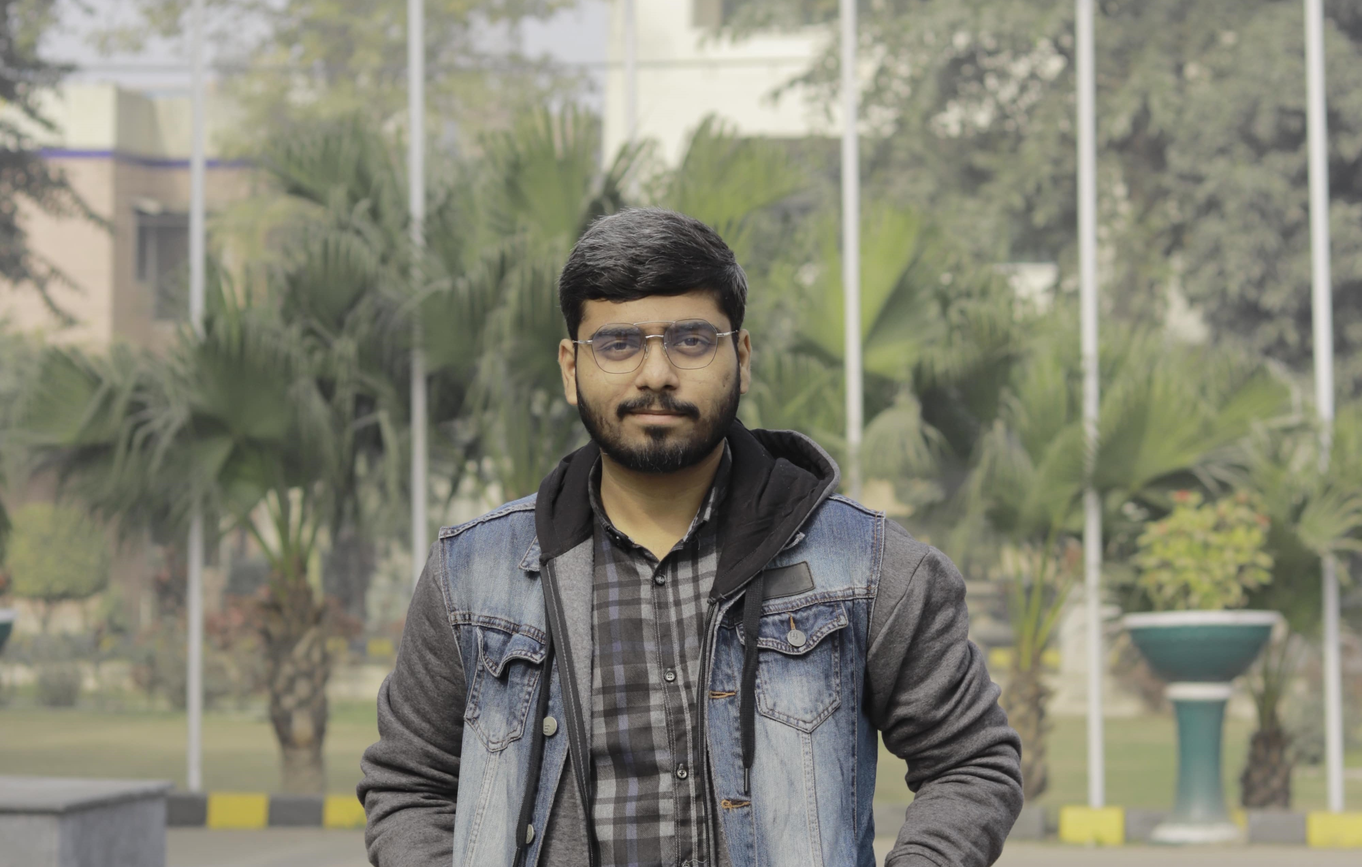
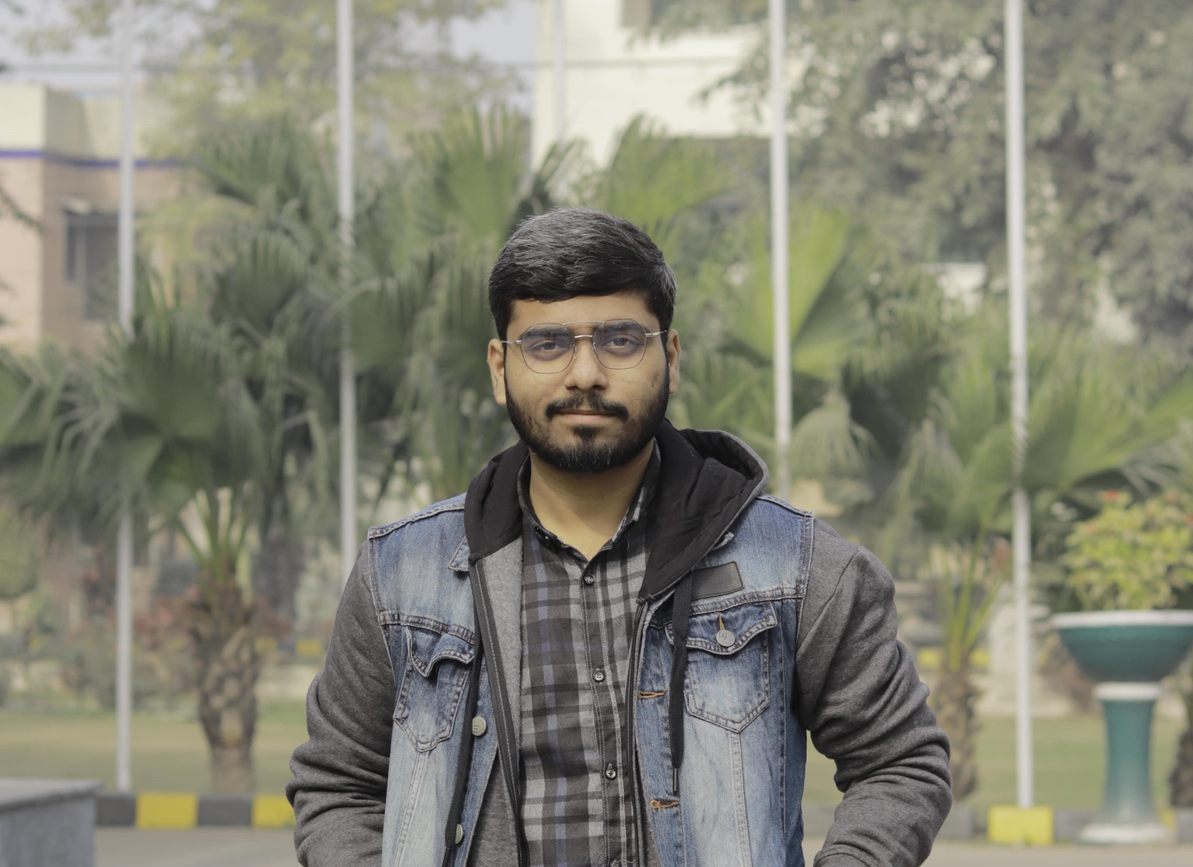
refactor: Update image source URLs for lazy loading

diff --git a/src/Components/BlurFade/BlurFade.jsx b/src/Components/BlurFade/BlurFade.jsx
@@ -30,6 +30,7 @@ export function BlurFadeDemo() {
                   src={`${process.env.PUBLIC_URL}${image.src}`}
                   alt={`img ${idx + 1}`}
                   style={{ width: image.width, height: image.height }}
+                  loading="lazy"
                 />
                 <div className="card__content">
                   <h5 className="card__title">{image.title}</h5>

diff --git a/src/Components/Avatar/Avatar.jsx b/src/Components/Avatar/Avatar.jsx
@@ -2,7 +2,7 @@ import React from "react";
 import "./Avatar.css";
 
 const Avatar = () => {
-  const imageUrl = `${process.env.PUBLIC_URL}/images/Muhammad Abdullah.jpg`;
+  const imageUrl = `${process.env.PUBLIC_URL}/images/me.jpg`;
   const altText = "Muhammad Abdullah";
   return (
     <div className="avatar-container">

diff --git a/src/App.js b/src/App.js
@@ -21,7 +21,7 @@ import { BlurFadeDemo } from "./Components/BlurFade/BlurFade";
 
 export default function App() {
   return (
-    <div style={{ height: "10000px" }}>
+    <div className="parent">
       <SmoothScroll>
         <div className="App">
           {/* Headline row */}

diff --git a/src/App.css b/src/App.css
@@ -12,6 +12,12 @@ body {
     margin: 0 5% 0 5%;
   }
 }
+.parent {
+  height: 4680px;
+  @media screen and (max-width: 768px) {
+    height: 10300px;
+  }
+}
 h1 {
   font-size: 36px;
   font-weight: 600;
